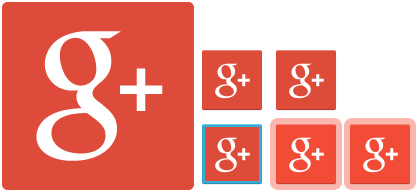
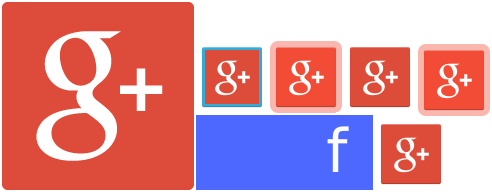
Add a temporary FB button

diff --git a/GalCon-Client/GalCon-Client/src/com/xxx/galcon/screen/signin/SignInScreen.java b/GalCon-Client/GalCon-Client/src/com/xxx/galcon/screen/signin/SignInScreen.java
@@ -16,6 +16,7 @@ import com.badlogic.gdx.scenes.scene2d.InputEvent;
 import com.badlogic.gdx.scenes.scene2d.InputListener;
 import com.badlogic.gdx.scenes.scene2d.Stage;
 import com.badlogic.gdx.scenes.scene2d.ui.Button;
+import com.badlogic.gdx.scenes.scene2d.ui.ImageButton;
 import com.badlogic.gdx.scenes.scene2d.utils.Align;
 import com.xxx.galcon.Constants;
 import com.xxx.galcon.PartialScreenFeedback;
@@ -130,7 +131,7 @@ public class SignInScreen implements PartialScreenFeedback, AuthenticationListen
 	}
 	
 	private void addFacebookButton(float width, float height) {
-		facebookButton = new Button(skin, Constants.UI.GOOGLE_PLUS_SIGN_IN_BUTTON);
+		facebookButton = new ImageButton(skin, Constants.UI.FACEBOOK_SIGN_IN_BUTTON);
 		facebookButton.setWidth(0.4f * width);
 		facebookButton.setX(width / 2 - googlePlusButton.getWidth() / 2);
 		facebookButton.setY(0.4f * height);

diff --git a/GalCon-Client/GalCon-Client/src/com/xxx/galcon/UISkin.java b/GalCon-Client/GalCon-Client/src/com/xxx/galcon/UISkin.java
@@ -138,6 +138,10 @@ public class UISkin extends Skin {
 			TextureRegionDrawable trd = new TextureRegionDrawable(menusAtlas.findRegion("coin"));
 			add(Constants.UI.COIN, new ImageButtonStyle(trd, trd, trd, trd, trd, trd));
 		}
+		{
+			TextureRegionDrawable trd = new TextureRegionDrawable(socialAtlas.findRegion("facebook_normal"));
+			add(Constants.UI.FACEBOOK_SIGN_IN_BUTTON, new ImageButtonStyle(null, null, null, trd, trd, trd));
+		}
 
 		TextureRegionDrawable trd = new TextureRegionDrawable(levelSelectionAtlas.findRegion("reg_play"));
 		add("regularPlay", new ImageButtonStyle(trd, trd, trd, trd, trd, trd));

diff --git a/GalCon-Client/GalCon-Client/src/com/xxx/galcon/Constants.java b/GalCon-Client/GalCon-Client/src/com/xxx/galcon/Constants.java
@@ -41,6 +41,8 @@ public class Constants {
 		public static final String COIN = "coin";
 		public static final String DIALOG_BG = "dialogBg";
 		public static final String GOOGLE_PLUS_SIGN_IN_BUTTON = "googlePlusSignInButton";
+		public static final String FACEBOOK_SIGN_IN_BUTTON = "facebookSignInButton";
+
 		public static final String EXPLOSION_PARTICLE = "explosionParticle";
 	}
 
